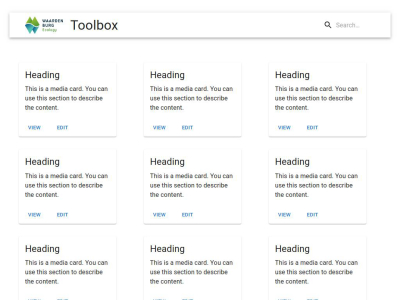
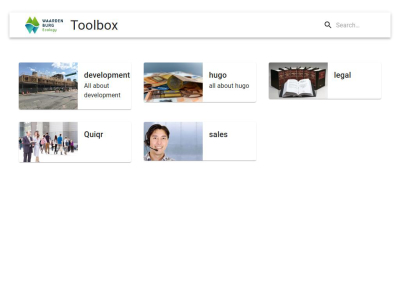
'publication from pim@ojs+linux+5.15.74+quiqr-desktop-app-0.14.2'

diff --git a/themes/company-toolbox/assets/components/ResourceCard.jsx b/themes/company-toolbox/assets/components/ResourceCard.jsx
@@ -6,19 +6,108 @@ import CardMedia from '@mui/material/CardMedia';
 import CardContent from '@mui/material/CardContent';
 import CardActionArea from '@mui/material/CardActionArea';
 import CardActions from '@mui/material/CardActions';
+import IconButton from '@mui/material/IconButton';
+import FavoriteIcon from '@mui/icons-material/Favorite';
+import InfoIcon from '@mui/icons-material/Info';
 import Button from '@mui/material/Button';
+import Tooltip from '@mui/material/Tooltip';
+import Snackbar from '@mui/material/Snackbar';
+import Alert from '@mui/material/Alert';
+import Dialog from '@mui/material/Dialog';
+import DialogTitle from '@mui/material/DialogTitle';
+import DialogContent from '@mui/material/DialogContent';
+import DialogContentText from '@mui/material/DialogContent';
+import DialogActions from '@mui/material/DialogActions';
 
 export default class ResourceCard extends React.Component {
+  constructor(props) {
+    super(props);
+    this.state = {
+      snackbarFavOpen : false,
+      snackbarNoLinkOpen : false,
+      dialogOpen : false,
+    }
+  }
+
+  snackbarHandleClose(){
+  }
   render(){
 
+    let image = this.props.itemData.image
+    console.log( image)
+
+    if(image.includes("no value")){
+      image = "scholver.jpg";
+    }
+
     return (
+
       <Card
-        sx={{maxWidth: 500, height: '100%', display: 'flex', flexDirection: 'column' }}
+        sx={{
+        width: 350,
+        height: 480,
+        display: 'flex',
+        flexDirection: 'column' }}
       >
+
+        <Snackbar anchorOrigin={{vertical: "top",horizontal: "center"}} open={this.state.snackbarFavOpen} autoHideDuration={2000} onClose={()=>{
+          this.setState({snackbarFavOpen: false})
+          }}>
+          <Alert severity="success" sx={{ width: '100%' }}>
+            Added to favorites.
+          </Alert>
+        </Snackbar>
+
+        <Snackbar anchorOrigin={{vertical: "top",horizontal: "center"}}  open={this.state.snackbarNoLinkOpen} autoHideDuration={2000} onClose={()=>{
+          this.setState({snackbarNoLinkOpen: false})
+          }}>
+          <Alert severity="warning" sx={{ width: '100%' }}>
+            No default link is set.
+          </Alert>
+        </Snackbar>
+
+        <Dialog
+          maxWidth="sm"
+          fullWidth
+          open={this.state.dialogOpen}
+          onClose={()=>{
+            this.setState({dialogOpen: false})
+          }}
+          aria-labelledby="alert-dialog-title"
+          aria-describedby="alert-dialog-description"
+        >
+          <DialogTitle id="alert-dialog-title">
+            {this.props.itemData.title}
+          </DialogTitle>
+          <DialogContent>
+            <DialogContentText id="alert-dialog-description">
+            {this.props.itemData.description}
+            </DialogContentText>
+          </DialogContent>
+          <DialogActions>
+            {this.props.itemData.actions.map((actionItem, i) => (
+              <Button key={actionItem.title}
+                onClick={
+                  ()=>{
+                    window.open(actionItem.url)
+                  }
+                }
+                size="small">{(i===0 ? "► " : "")}{actionItem.title}</Button>
+            ))}
+            <Button color="secondary" onClick={()=>{
+              this.setState({dialogOpen: false});
+            }}>Close</Button>
+          </DialogActions>
+
+        </Dialog>
+
         <CardActionArea onClick={
-          ()=>{
+          (e)=>{
             if(this.props.itemData.actions.length > 0){
               window.open(this.props.itemData.actions[0].url)
+            }
+            else{
+              this.setState({snackbarNoLinkOpen: true})
             }
           }
           }>
@@ -27,27 +116,48 @@ export default class ResourceCard extends React.Component {
           sx={{
             maxHeight: 200
           }}
-          image={"/images/" + this.props.itemData.image}
-          alt="random"
+          image={"/images/" + image}
+          alt={"img: " + this.props.itemData.title}
         />
-        <CardContent sx={{ flexGrow: 1 }}>
-          <Typography gutterBottom variant="h5" component="h2">
-            {this.props.itemData.title}
-          </Typography>
+          <CardContent sx={{ height:220 }}>
+            <Typography gutterBottom variant="h5" component="h2">
+              {this.props.itemData.title}
+
+              <Tooltip title="Add to favorites on home page">
+              <IconButton aria-label="add to favorites" onClick={(e)=>{
+                e.stopPropagation();
+                this.setState({snackbarFavOpen: true})
+              }}>
+                <FavoriteIcon />
+              </IconButton>
+              </Tooltip>
+
+              <Tooltip title="show more information">
+              <IconButton aria-label="show more information" onClick={(e)=>{
+                e.stopPropagation();
+                this.setState({dialogOpen: true})
+              }}>
+                <InfoIcon />
+              </IconButton>
+              </Tooltip>
+
+            </Typography>
           <Typography>
+            <div style={{height: 150, textOverflow: "ellipsis", overflow: 'hidden'}}>
             {this.props.itemData.description}
+            </div>
           </Typography>
         </CardContent>
         </CardActionArea>
         <CardActions>
-          {this.props.itemData.actions.map((actionItem) => (
+          {this.props.itemData.actions.map((actionItem, i) => (
             <Button key={actionItem.title}
               onClick={
                 ()=>{
                   window.open(actionItem.url)
                 }
               }
-              size="small">{actionItem.title}</Button>
+              size="small">{(i===0 ? "► " : "")}{actionItem.title}</Button>
           ))}
         </CardActions>
       </Card>

diff --git a/themes/company-toolbox/assets/components/CategoryListing.jsx b/themes/company-toolbox/assets/components/CategoryListing.jsx
@@ -41,7 +41,7 @@ export default class CategoryListing extends React.Component {
 
         <Grid container spacing={4} sx={{ py: 2 }}>
           {this.state.categories.map((catData) => (
-            <Grid item key={catData.title} xs={12} sm={6} md={4} lg={3} xl={2}>
+            <Grid item key={catData.title} xs={12} sm={7} md={5} lg={3.5} xl={3}>
               <CategoryCard itemData={catData} />
             </Grid>
           ))}

diff --git a/themes/company-toolbox/assets/components/ResourceListing.jsx b/themes/company-toolbox/assets/components/ResourceListing.jsx
@@ -40,7 +40,7 @@ export default class ResourceListing extends React.Component {
 
         <Grid container spacing={4} sx={{ py: 2 }}>
           {this.state.resources.map((resource) => (
-            <Grid item key={resource.title} xs={12} sm={6} md={4} lg={3} xl={2}>
+            <Grid item key={resource.title} xs={12} sm={7} md={5} lg={4} xl={3}>
               <ResourceCard itemData={resource}/>
             </Grid>
           ))}

diff --git a/themes/company-toolbox/assets/components/CategoryCard.jsx b/themes/company-toolbox/assets/components/CategoryCard.jsx
@@ -14,7 +14,9 @@ export default class CategoryCard extends React.Component {
       <Card
         sx={{
           display: 'flex',
-          cursor: 'pointer'
+          cursor: 'pointer',
+          width: 350,
+          height: 120
         }}
         onClick={
           ()=>{

diff --git a/content/category/human-resources/index.md b/content/category/human-resources/index.md
@@ -1,18 +1,36 @@
 ---
-title: Quiqr
-description: ''
+title: Human Resources
+description: All about human resources.
 resource_links:
   - title: learning
     description: ''
     resources: []
     primary_action: https://quiqr.org
-  - title: Quiqr GitHub
-    description: The github with source code
+    actions: []
+  - title: hallo
+    description: >-
+      In het kader van de Deltawerken werd de zeearm, het Brouwershavense gat,
+      door de Grevelingendam (1965) en de Brouwersdam (1971) van zee afgesloten.
+      Na de afsluiting werd het Grevelingenmeer het grootste zoutwatermeer van
+      West-Europa. Aanvankelijk was het de bedoeling, om er een zoetwatermeer
+      van te maken door inlaat van Rijnwater, maar dat was in de jaren 70 zo
+      vervuild, dat ervan werd afgezien\nHet Grevelingenmeer is vooral in
+      gebruik als plek voor watersport en andere recreatie. Daarnaast is er nog
+      wat visserij overgebleven. Het zoutgehalte van het Grevelingenmeer wordt
+      sinds 1978 op peil gehouden door de Brouwerssluis, een doorlaatsluis in de
+      Brouwersdam, waarmee zeewater ingelaten wordt.\nEen gebied met een
+      oppervlakte van 13.872 ha is aangemerkt als beschermd Natura
+      2000-gebied.[1]
     resources: []
     primary_action: https://github.com/quiqr/
+    actions: []
 image: hr.jpg
 
 ---
+
+
+
+
 
 
 

diff --git a/content/category/development/index.md b/content/category/development/index.md
@@ -29,8 +29,25 @@ resource_links:
     actions:
       - title: Slashdot
         url: https://slashdot.org
+  - title: Wholesale
+    description: >-
+      Het IJsselmeer is onderdeel van het IJsselmeergebied en ontstond door het
+      afsluiten van een deel van de Zuiderzee. De Afsluitdijk werd voltooid op
+      28 mei 1932 en de officiële naamsverandering van het afgesloten deel van
+      de Zuiderzee vond plaats op 20 september 1932. Het meer werd genoemd naar
+      de rivier de IJssel, die erin uitmondt. Tegelijkertijd kreeg het
+      niet-afgesloten deel de naam Waddenzee. Later werden de Friese en
+      Groninger wadden ook tot de Waddenzee gerekend.
+    resources: []
+    actions:
+      - title: Open
+        url: https://buwa.nl
 
 ---
+
+
+
+
 
 
 
